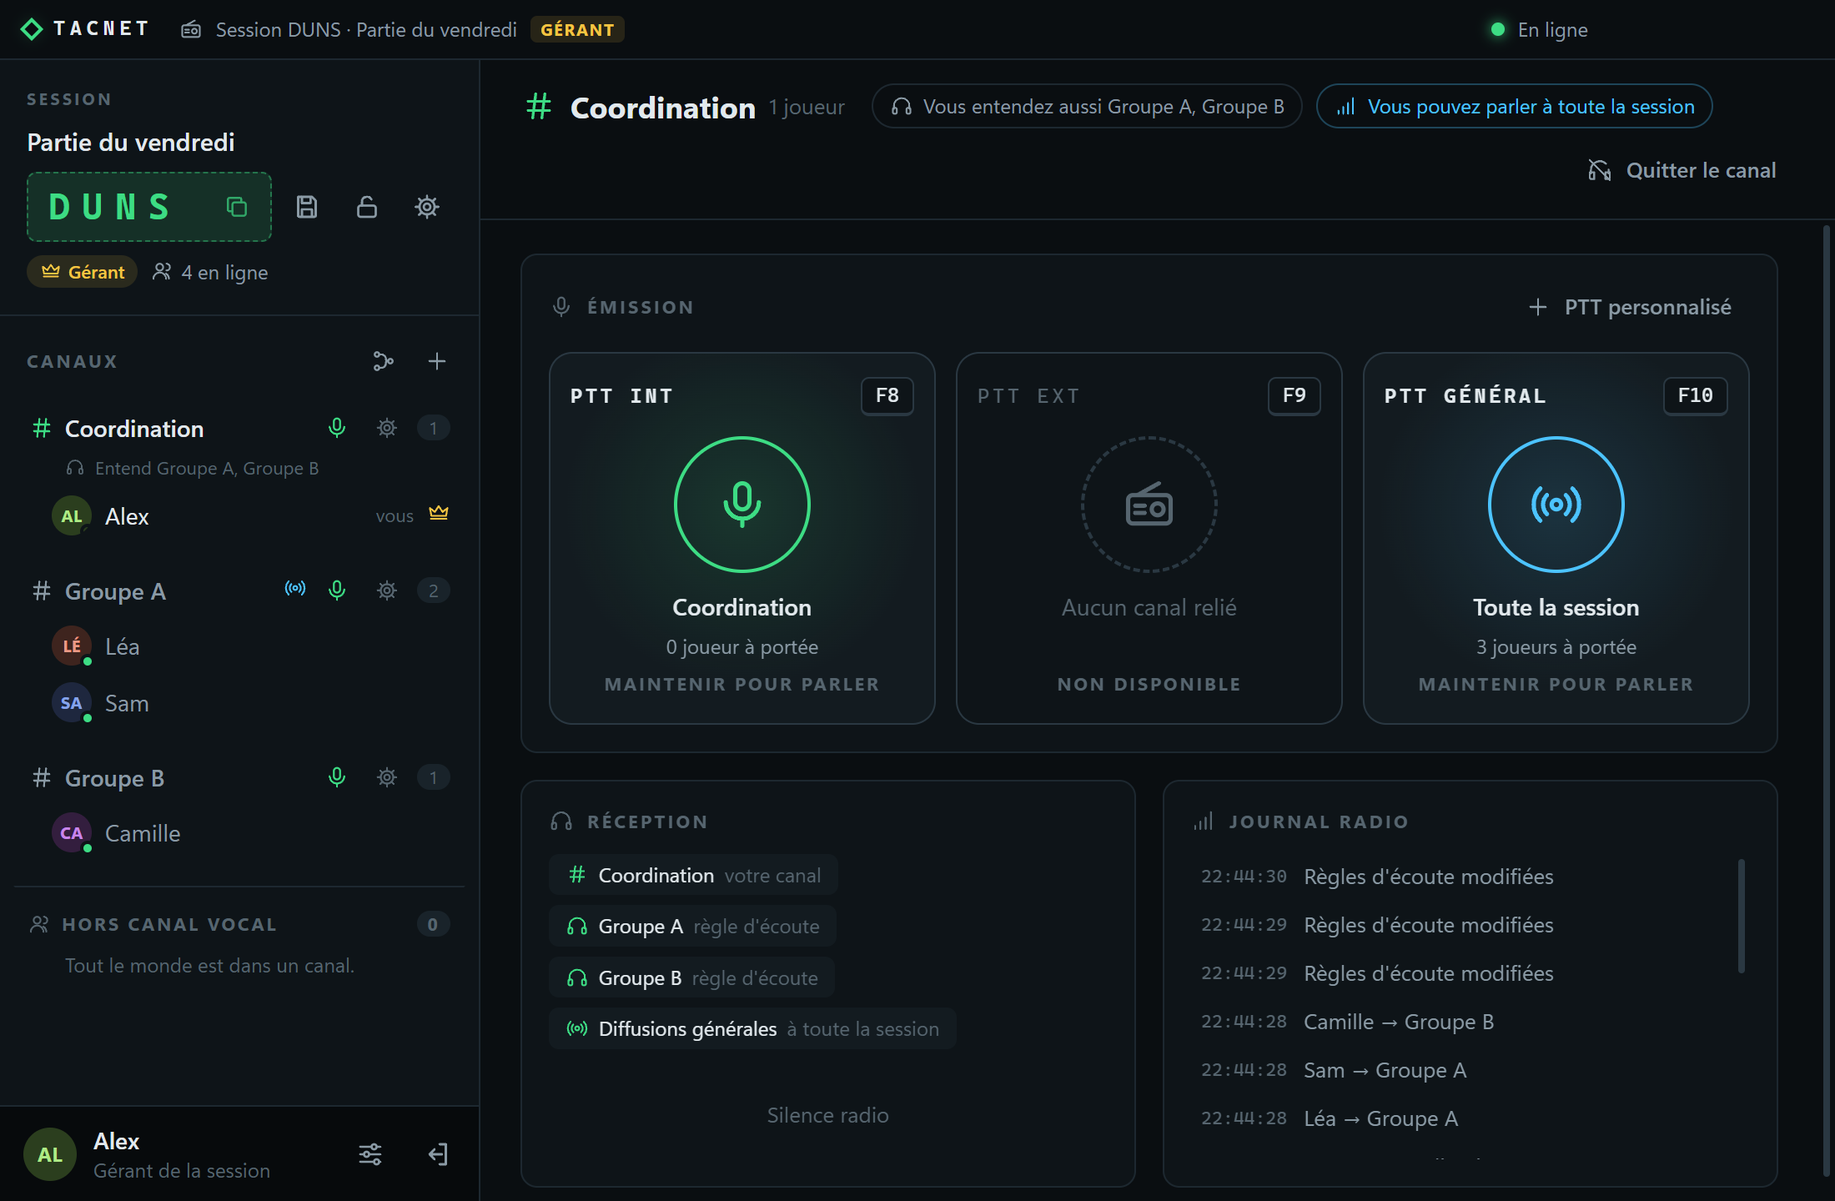
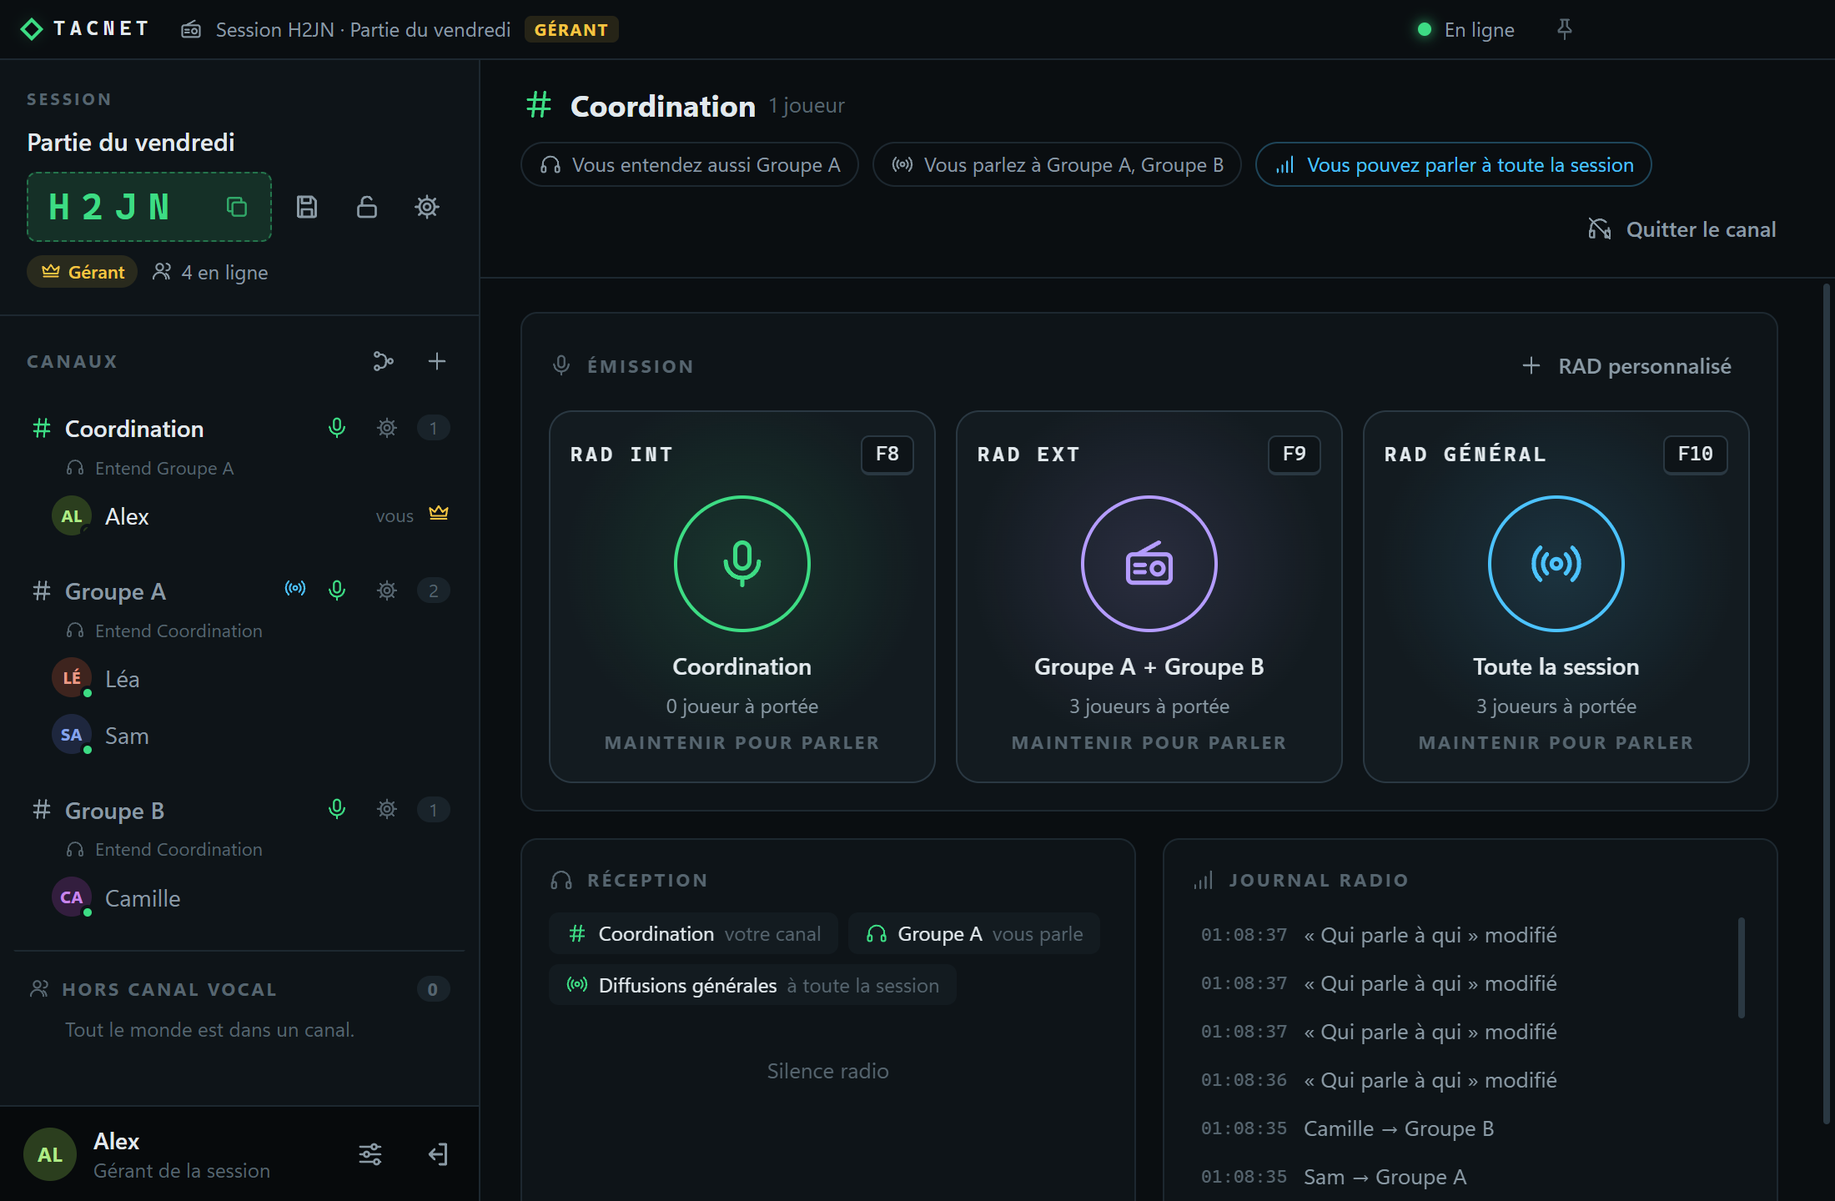
Page : RAD, Qui parle à qui, RAD prioritaire, Docker pas à pas et guide Domaine et HTTPS

diff --git a/README.md b/README.md
@@ -10,10 +10,10 @@ TACNET est une application Windows. Une personne crée une session et partage un
 
 ## Ce que permet TACNET
 
-- **Sessions et canaux** : un code à 4 caractères, des canaux créés par le gérant, des règles d'écoute (« ce canal entend celui-là »).
-- **Parler comme à la radio** : Push To Talk vers son canal (Int), vers les canaux reliés (Ext), vers toute la session (Général) ou vers un seul canal. Les touches se règlent et fonctionnent même quand une autre fenêtre, un jeu par exemple, est au premier plan.
+- **Sessions et canaux** : un code à 4 caractères, des canaux créés par le gérant, et un tableau **Qui parle à qui** pour choisir à quels canaux chaque canal parle.
+- **Parler comme à la radio** : le **RAD** (radio) vers son canal (Int), vers les canaux reliés (Ext), vers toute la session (Général) ou vers un seul canal. Les touches se règlent et fonctionnent même quand une autre fenêtre, un jeu par exemple, est au premier plan.
 - **Rôles** : gérant, adjoint, joueur, auditeur, et des rôles personnalisés réglés option par option.
-- **Mode Half-Duplex** : un seul émetteur à la fois vers un canal.
+- **Mode Half-Duplex et RAD prioritaire** : un seul émetteur à la fois vers un canal. Avec l'option **RAD prioritaire**, les canaux que choisit le gérant, le commandement par exemple, coupent aussitôt la parole de celui qui occupe un canal qu'ils visent.
 - **Canaux masqués** : chaque joueur ne voit que son propre canal, idéal pour garder le secret des équipes (exemple du Loup-Garou plus bas).
 - **Fenêtre épinglable et réductible** : le pin de la barre de titre garde TACNET au-dessus des autres fenêtres, et la fenêtre peut se réduire jusqu'à ne montrer que les canaux et ceux qui y sont.
 - **Mises à jour signalées** : un bandeau prévient quand une nouvelle version est publiée, et quand le serveur n'est pas à jour, pour que son hébergeur le sache.
@@ -47,7 +47,7 @@ TACNET a besoin d'un serveur pour mettre les joueurs en relation. Il y a trois f
 | **Il vous faut** | Un compte Render, gratuit | Docker et un seul fichier `docker-compose.yml` | Node.js et `TACNET_SERV.zip` |
 | **Les réglages** | Une variable : le mot de passe | Dans le fichier : mot de passe et port | Dans `config.env` : mot de passe et port |
 | **Vos données** | Effacées à chaque redémarrage sur le plan gratuit, sauf avec l'option Upstash | Gardées | Gardées |
-| **Chiffrement** | Automatique, sans empreinte | Certificat auto-signé avec empreinte, ou domaine avec HTTPS | Comme Docker |
+| **Chiffrement** | Automatique, sans empreinte | Certificat auto-signé avec empreinte, ou [domaine avec HTTPS](docs/domaine-et-https.md) | Comme Docker |
 
 ### Render
 
@@ -75,51 +75,73 @@ Sans cette option, rien ne change. Avec elle, le serveur copie ses pseudos rése
 
 ### Docker
 
-Pour un NAS, un mini-serveur, un hébergeur (VPS) ou un PC : tout ce qui fait tourner Docker Compose. **Il n'y a rien à télécharger** : Docker construit le serveur lui-même depuis le [dépôt public](https://github.com/yanks-user/TACNET-SERVER-RENDER), comme Render. Installez [Docker](https://docs.docker.com/get-docker/), puis créez un seul fichier, `docker-compose.yml`, dans un dossier vide :
+Pour un NAS, un mini-serveur, un hébergeur (VPS) ou un PC : tout ce qui fait tourner Docker Compose. **Il n'y a rien à télécharger** : Docker construit le serveur lui-même depuis le [dépôt public](https://github.com/yanks-user/TACNET-SERVER-RENDER), comme Render. Il suffit de créer un dossier et un seul fichier, en quatre étapes.
 
-```yaml
-# Serveur TACNET : le seul fichier à créer
-services:
-  tacnet:
-    # Construit depuis le dépôt public de TACNET, comme Render
-    build: https://github.com/yanks-user/TACNET-SERVER-RENDER.git
-    restart: unless-stopped
-    init: true
-    stop_grace_period: 15s
-    ports:
-      # 1er nombre = port des joueurs ("9000:8080" pour le 9000)
-      - "8080:8080"
-    environment:
-      # Mot de passe demandé aux joueurs, 8 caractères minimum
-      SERVER_PASSWORD: "changez-moi-svp"
-      # Derrière un reverse proxy (HTTPS) : retirez les deux #
-      # TLS: "off"
-      # TRUST_PROXY: "true"
-    volumes:
-      # Pseudos, codes, sessions et certificat : survivent aux mises à jour
-      - tacnet-data:/data
-    read_only: true
-    tmpfs:
-      - /tmp
-    cap_drop:
-      - ALL
-    security_opt:
-      - no-new-privileges:true
-volumes:
-  tacnet-data:
-```
+1. **Installez [Docker](https://docs.docker.com/get-docker/)** sur la machine qui restera allumée : Docker Desktop sous Windows ou Mac, Docker Engine avec Compose sous Linux. Un NAS le propose souvent parmi ses applications.
+2. **Créez un dossier pour le serveur.** Ouvrez un terminal (une connexion SSH sur un NAS ou un hébergeur, par exemple `ssh utilisateur@adresse-du-serveur` ; PowerShell sous Windows), créez le dossier, puis placez-vous dedans. Le nom est libre :
 
-Remplacez le mot de passe (8 caractères minimum), puis, dans ce dossier :
+   ```
+   mkdir tacnet-serveur
+   cd tacnet-serveur
+   ```
 
-```
-docker compose up -d --build
-```
+3. **Créez et réglez le fichier.** Cette commande crée `docker-compose.yml` et l'ouvre dans l'éditeur nano :
+
+   ```
+   nano docker-compose.yml
+   ```
+
+   Collez le contenu ci-dessous (clic droit, ou Maj+Inser, dans la plupart des terminaux) et remplacez le mot de passe (8 caractères minimum). Enregistrez avec **Ctrl+O** puis **Entrée**, et quittez avec **Ctrl+X**. Sous Windows, `notepad docker-compose.yml` ouvre le Bloc-notes à la place.
+
+   ```yaml
+   # Serveur TACNET : le seul fichier à créer
+   services:
+     tacnet:
+       # Construit depuis le dépôt public de TACNET, comme Render
+       build: https://github.com/yanks-user/TACNET-SERVER-RENDER.git
+       restart: unless-stopped
+       init: true
+       stop_grace_period: 15s
+       ports:
+         # 1er nombre = port des joueurs ("9000:8080" pour le 9000)
+         - "8080:8080"
+       environment:
+         # Mot de passe demandé aux joueurs, 8 caractères minimum
+         SERVER_PASSWORD: "changez-moi-svp"
+         # Derrière un reverse proxy (HTTPS) : retirez les deux #
+         # TLS: "off"
+         # TRUST_PROXY: "true"
+       volumes:
+         # Pseudos, codes, sessions et certificat : survivent aux mises à jour
+         - tacnet-data:/data
+       read_only: true
+       tmpfs:
+         - /tmp
+       cap_drop:
+         - ALL
+       security_opt:
+         - no-new-privileges:true
+   volumes:
+     tacnet-data:
+   ```
+
+4. **Créez et lancez le serveur**, toujours dans ce dossier :
+
+   ```
+   docker compose up -d --build
+   ```
+
+   `--build` construit le serveur (une à deux minutes la première fois) et `-d` le lance en arrière-plan : vous pouvez fermer le terminal.
+
+Il reste à donner l'accès aux joueurs :
 
 1. Relevez l'empreinte du certificat avec `docker compose logs tacnet` (ligne « Empreinte du certificat »).
 2. Donnez aux joueurs l'adresse `wss://ADRESSE-DU-SERVEUR:8080`, le mot de passe et l'empreinte.
 3. Ouvrez le port 8080 (ou celui que vous avez choisi en changeant le premier nombre de `ports`), et redirigez-le depuis votre box pour jouer hors de votre réseau.
 
-Pour mettre à jour : `docker compose build --no-cache`, puis `docker compose up -d`. Pseudos, sessions et certificat restent dans le volume Docker. Le fichier contient le mot de passe en clair : ne le partagez pas. Un nom de domaine avec HTTPS est possible derrière un reverse proxy : voir le guide.
+Pour mettre à jour : `docker compose build --no-cache`, puis `docker compose up -d`. Pseudos, sessions et certificat restent dans le volume Docker. Le fichier contient le mot de passe en clair : ne le partagez pas.
+
+**Un nom de domaine avec HTTPS** (une adresse simple, et plus d'empreinte à donner) : suivez le [guide Domaine et HTTPS](docs/domaine-et-https.md), qui ajoute Caddy à ce même fichier.
 
 ### Node.js sous Windows
 
@@ -131,7 +153,7 @@ Sans Docker, sur un PC Windows allumé pendant les parties :
 4. Double-cliquez de nouveau sur `demarrer-serveur.cmd`, autorisez Node.js dans le pare-feu Windows s'il le demande, et **laissez la fenêtre ouverte** pendant les parties : l'empreinte à donner aux joueurs s'y affiche.
 5. Donnez aux joueurs l'adresse `wss://ADRESSE-DU-SERVEUR:8080`, le mot de passe et l'empreinte, et ouvrez ou redirigez le port 8080 comme pour Docker.
 
-Le guide (`README.html`) de `TACNET_SERV.zip` détaille Docker et Node.js : mise à jour, sauvegarde, autre port, nom de domaine avec HTTPS, pseudos bloqués.
+**Un nom de domaine avec HTTPS** : suivez le [guide Domaine et HTTPS](docs/domaine-et-https.md). Le guide (`README.html`) de `TACNET_SERV.zip` détaille Docker et Node.js : mise à jour, sauvegarde, autre port, pseudos bloqués.
 
 ## Les services tiers
 
@@ -151,13 +173,17 @@ La voix ne passe par aucun de ces services : elle circule directement entre les 
 
 ## Captures
 
-| La vue du gérant : canaux, joueurs et règles | Les règles d'écoute : qui entend qui |
+| La vue du gérant : canaux, joueurs et règles | Qui parle à qui : à quels canaux chaque canal parle |
 |---|---|
-| ![Vue du gérant avec ses canaux et ses joueurs](docs/vue-gerant.png) | ![Règles d'écoute entre les canaux Coordination, Groupe A et Groupe B](docs/regles-ecoute.png) |
+| ![Vue du gérant avec ses canaux et ses joueurs](docs/vue-gerant.png) | ![Tableau « Qui parle à qui » entre les canaux Coordination, Groupe A et Groupe B, avec son résumé en clair](docs/qui-parle-a-qui.png) |
 
 | Canaux masqués : ce que voit un joueur | Paramètres de la session : ce que règle le gérant |
 |---|---|
-| ![Vue d'un joueur limitée à son canal](docs/canaux-masques.png) | ![Paramètres de la session, avec l'option des canaux masqués](docs/parametres-session.png) |
+| ![Vue d'un joueur limitée à son canal](docs/canaux-masques.png) | ![Paramètres de la session : Half-Duplex, RAD prioritaire et canaux masqués](docs/parametres-session.png) |
+
+| RAD prioritaire : le gérant choisit les canaux prioritaires | Ce que voit celui dont la parole est coupée |
+|---|---|
+| ![Fenêtre « RAD prioritaire » : le canal Coordination est prioritaire](docs/rad-prioritaire.png) | ![Un joueur du Groupe A coupé par le canal Coordination : bouton « Occupé », message et journal radio](docs/rad-coupure.png) |
 
 ## Exemple : le Loup-Garou à 10 joueurs
 
@@ -174,7 +200,7 @@ Les canaux masqués servent à garder un secret. Exemple avec une partie de Loup
 **Une nuit**
 
 1. Sur Discord, le narrateur annonce « Le village s'endort » : tout le monde coupe son micro.
-2. Sur TACNET, il appelle les rôles l'un après l'autre : « Les loups-garous se réveillent ». Les loups se concertent entre eux en PTT Int et le narrateur les entend, ils désignent leur victime. Puis « La voyante se réveille » : elle répond, seul le narrateur l'entend. Puis la sorcière.
+2. Sur TACNET, il appelle les rôles l'un après l'autre : « Les loups-garous se réveillent ». Les loups se concertent entre eux en RAD Int et le narrateur les entend, ils désignent leur victime. Puis « La voyante se réveille » : elle répond, seul le narrateur l'entend. Puis la sorcière.
 3. Au matin, tout le monde rouvre son micro sur Discord et le narrateur annonce la victime.
 
 | Le narrateur voit tout et appelle un rôle à la fois | Un loup voit ses complices, et le narrateur qui lui parle |
@@ -192,7 +218,7 @@ Les canaux masqués servent à garder un secret. Exemple avec une partie de Loup
 **Bon à savoir**
 
 - Pour un rôle de nuit de plus (Cupidon, par exemple), ajoutez un canal et placez-y le joueur.
-- Le PTT Général du narrateur est entendu par tous les joueurs placés dans un canal, mais pas par les villageois hors canal vocal.
+- Le RAD Général du narrateur est entendu par tous les joueurs placés dans un canal, mais pas par les villageois hors canal vocal.
 - Utilisez un casque : sinon la voix jouée par les haut-parleurs peut repartir dans le micro d'un autre vocal.
 
 ## Licence

diff --git a/docs/domaine-et-https.md b/docs/domaine-et-https.md
@@ -1,0 +1,186 @@
+# Domaine et HTTPS pour votre serveur TACNET
+
+[← Retour à la page TACNET](../README.md#il-faut-un-serveur)
+
+Ce guide est pour celles et ceux qui **hébergent leur propre serveur** TACNET, avec Docker ou avec Node.js sous Windows. Sur Render, le nom de domaine et le HTTPS sont déjà fournis : il n'y a rien à faire.
+
+## À quoi ça sert
+
+Sans domaine, les joueurs saisissent l'adresse de votre machine, un numéro de port et une empreinte à recopier. **Avec un nom de domaine**, ils saisissent une adresse simple, `wss://tacnet.example.com`, et **plus d'empreinte** : la connexion est chiffrée avec un vrai certificat.
+
+Pour cela, un petit logiciel, le **reverse proxy**, reçoit leurs connexions et les transmet à TACNET. Ce guide utilise **Caddy**, qui obtient et renouvelle tout seul le certificat HTTPS.
+
+```
+Application  →  wss:// chiffré  →  Caddy  →  ws:// local  →  Serveur TACNET
+```
+
+## Avant de commencer
+
+Trois choses à avoir en place. Dans tout ce guide, remplacez `tacnet.example.com` par votre domaine.
+
+1. **Un nom de domaine**, ou un sous-domaine gratuit (DuckDNS, par exemple).
+2. **Ce nom pointe vers votre machine.** Chez le service où vous l'avez obtenu, créez un enregistrement `A` avec l'adresse IP publique de votre box. Attendez quelques minutes.
+3. **Les ports 80 et 443 (TCP) arrivent sur la machine** : ouvrez-les, ou redirigez-les depuis votre box. Le 80 sert à obtenir le certificat, le 443 aux joueurs.
+
+## Avec Docker
+
+On ajoute Caddy au fichier du serveur : tout reste dans le même dossier, et une seule commande démarre l'ensemble. Il faut que le serveur Docker de la [page TACNET](../README.md#docker) soit déjà en place.
+
+**1. Placez-vous dans le dossier du serveur**, celui qui contient `docker-compose.yml` :
+
+```
+cd tacnet-serveur
+```
+
+**2. Créez le fichier de Caddy.** Cette commande crée `Caddyfile` et l'ouvre dans l'éditeur nano :
+
+```
+nano Caddyfile
+```
+
+Collez ces trois lignes, avec votre domaine, puis enregistrez (**Ctrl+O**, **Entrée**) et quittez (**Ctrl+X**) :
+
+```
+tacnet.example.com {
+    reverse_proxy tacnet:8080
+}
+```
+
+`tacnet` est le nom du service dans `docker-compose.yml` : ne le changez pas.
+
+**3. Remplacez le fichier du serveur.** Ouvrez-le, effacez son contenu (dans nano, **Ctrl+K** plusieurs fois), collez celui-ci, remettez votre mot de passe (8 caractères minimum), puis enregistrez et quittez comme avant :
+
+```
+nano docker-compose.yml
+```
+
+```yaml
+# Serveur TACNET + Caddy (domaine et HTTPS) : le seul fichier à changer
+services:
+  tacnet:
+    # Construit depuis le dépôt public de TACNET, comme Render
+    build: https://github.com/yanks-user/TACNET-SERVER-RENDER.git
+    restart: unless-stopped
+    init: true
+    stop_grace_period: 15s
+    # Pas de "ports" : seul Caddy joint TACNET, à l'intérieur de Docker
+    expose:
+      - "8080"
+    environment:
+      # Mot de passe demandé aux joueurs, 8 caractères minimum
+      SERVER_PASSWORD: "changez-moi-svp"
+      # Caddy chiffre et transmet : TACNET n'a plus besoin de son certificat
+      TLS: "off"
+      TRUST_PROXY: "true"
+    volumes:
+      - tacnet-data:/data
+    read_only: true
+    tmpfs:
+      - /tmp
+    cap_drop:
+      - ALL
+    security_opt:
+      - no-new-privileges:true
+
+  caddy:
+    image: caddy:2
+    restart: unless-stopped
+    depends_on:
+      - tacnet
+    ports:
+      - "80:80"
+      - "443:443"
+    volumes:
+      - ./Caddyfile:/etc/caddy/Caddyfile:ro
+      # Certificats et réglages de Caddy : à garder entre deux redémarrages
+      - caddy-data:/data
+      - caddy-config:/config
+
+volumes:
+  tacnet-data:
+  caddy-data:
+  caddy-config:
+```
+
+Ce qui change : TACNET n'ouvre plus de port vers l'extérieur (seul Caddy est joignable), `TLS` et `TRUST_PROXY` sont activés, et un second service, `caddy`, apparaît.
+
+**4. Démarrez :**
+
+```
+docker compose up -d --build
+```
+
+Caddy demande son certificat au premier démarrage, ce qui prend quelques secondes.
+
+**5. Vérifiez :**
+
+```
+docker compose logs caddy
+```
+
+La ligne `certificate obtained successfully` confirme que le certificat est obtenu. Puis, depuis n'importe quel ordinateur :
+
+```
+curl -i https://tacnet.example.com/
+```
+
+La réponse attendue est un code **426** avec `WebSocket uniquement.` : c'est bon signe.
+
+**6. Prévenez les joueurs.** Dans TACNET, **Paramètres > Serveur** : adresse `wss://tacnet.example.com`, sans numéro de port, et **empreinte vide**.
+
+> **Docker Desktop (Windows, Mac).** Tous les joueurs peuvent y arriver avec la même adresse : une seule personne qui se trompe 5 fois de mot de passe bloque alors tout le monde pendant une minute. Sur Linux, un NAS ou un hébergeur, ce cas ne se présente pas.
+
+## Avec Node.js sous Windows
+
+Caddy est un seul fichier à lancer à côté du serveur, sans installation.
+
+**1. Téléchargez Caddy.** Sur [caddyserver.com/download](https://caddyserver.com/download), choisissez **Windows** et **amd64**, puis enregistrez le fichier sous le nom `caddy.exe` dans un nouveau dossier, par exemple `C:\caddy`.
+
+**2. Réglez le serveur TACNET.** Ajoutez ces trois lignes dans `config.env` (à côté de `demarrer-serveur.cmd`), puis fermez la fenêtre du serveur et relancez `demarrer-serveur.cmd` :
+
+```
+TLS=off
+TRUST_PROXY=true
+HOST=127.0.0.1
+```
+
+`HOST=127.0.0.1` rend le serveur joignable depuis cette machine seulement : Caddy, installé dessus, est le seul à l'atteindre.
+
+**3. Créez le fichier de Caddy.** Dans `C:\caddy`, créez avec le Bloc-notes un fichier nommé exactement `Caddyfile`, sans extension (**Enregistrer sous**, type **Tous les fichiers**), avec votre domaine :
+
+```
+tacnet.example.com {
+    reverse_proxy 127.0.0.1:8080
+}
+```
+
+**4. Lancez Caddy**, dans PowerShell :
+
+```
+cd C:\caddy
+.\caddy.exe run
+```
+
+Autorisez Caddy dans le pare-feu Windows s'il le demande. **Laissez la fenêtre ouverte pendant les parties**, comme celle du serveur : la fermer arrête Caddy. La ligne `certificate obtained successfully` confirme que le certificat est obtenu.
+
+**5. Vérifiez et prévenez les joueurs.** Ouvrez `https://tacnet.example.com` dans un navigateur : la page affiche `WebSocket uniquement.`, c'est bon signe. Les joueurs saisissent dans **Paramètres > Serveur** l'adresse `wss://tacnet.example.com`, sans numéro de port, et **l'empreinte vide**.
+
+## Si ça ne marche pas
+
+| Ce que vous voyez | Que faire |
+|---|---|
+| Le journal de Caddy parle de `timeout` ou d'un certificat impossible à obtenir | Les ports 80 et 443 ne sont pas joignables depuis Internet : vérifiez la redirection de votre box et le pare-feu. Certains fournisseurs bloquent le port 80. |
+| Le navigateur ne trouve pas `tacnet.example.com` | Le nom ne pointe pas encore vers votre box : vérifiez l'enregistrement `A` et patientez quelques minutes. Si l'adresse IP de votre box change, utilisez un service d'adresse dynamique (DuckDNS, par exemple). |
+| `curl` : code 502 ou 503 | Caddy ne joint pas TACNET. Docker : `docker compose ps` doit montrer `tacnet` et `caddy` en `Up`, et le Caddyfile doit contenir `tacnet:8080`. Windows : la fenêtre du serveur doit être ouverte, et `config.env` contenir `TLS=off`. |
+| « Certificat refusé » dans l'application | L'adresse doit commencer par `wss://`, et l'empreinte doit être vide. |
+
+## Un autre reverse proxy (Nginx, HAProxy…)
+
+Si vous avez déjà un reverse proxy, ou si vous préférez un autre que Caddy, TACNET n'en impose aucun. Réglez le serveur avec `TLS=off`, `TRUST_PROXY=true` et un port joignable par le proxy seul, puis configurez le proxy pour qu'il fasse ces quatre choses :
+
+1. **Chiffrer** côté joueurs, avec un certificat valide pour votre domaine.
+2. **Laisser passer le WebSocket** vers le serveur (en-têtes `Upgrade` et `Connection`).
+3. **Ajouter l'adresse du joueur** à la fin de l'en-tête `X-Forwarded-For`.
+4. **Garder les connexions longues ouvertes** : une session peut durer des heures.
+
+Le guide du dossier `TACNET_SERV.zip` (page des [Releases](https://github.com/yanks-user/TACNET/releases/latest)) donne des exemples complets pour Nginx et HAProxy, avec le certificat Let's Encrypt.
